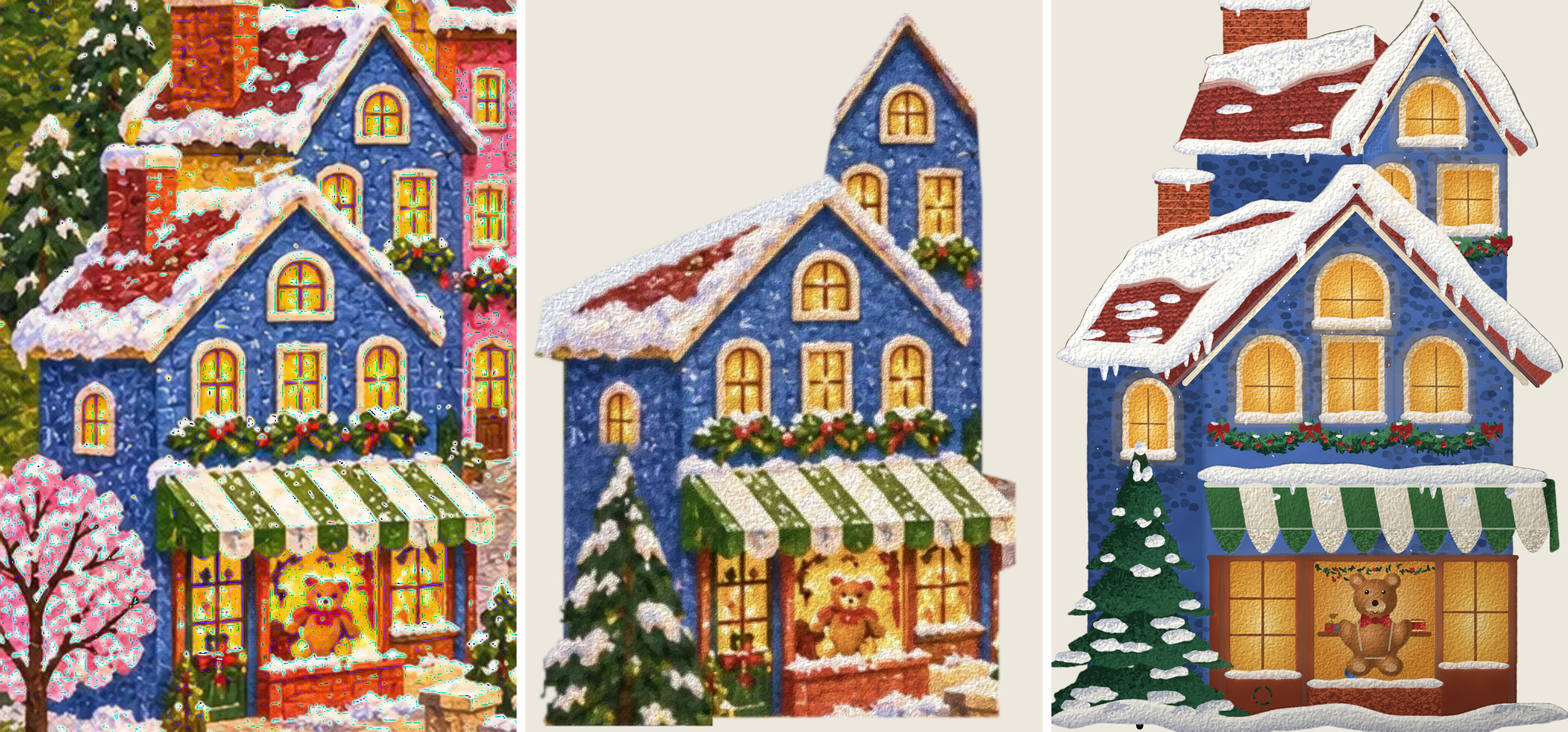
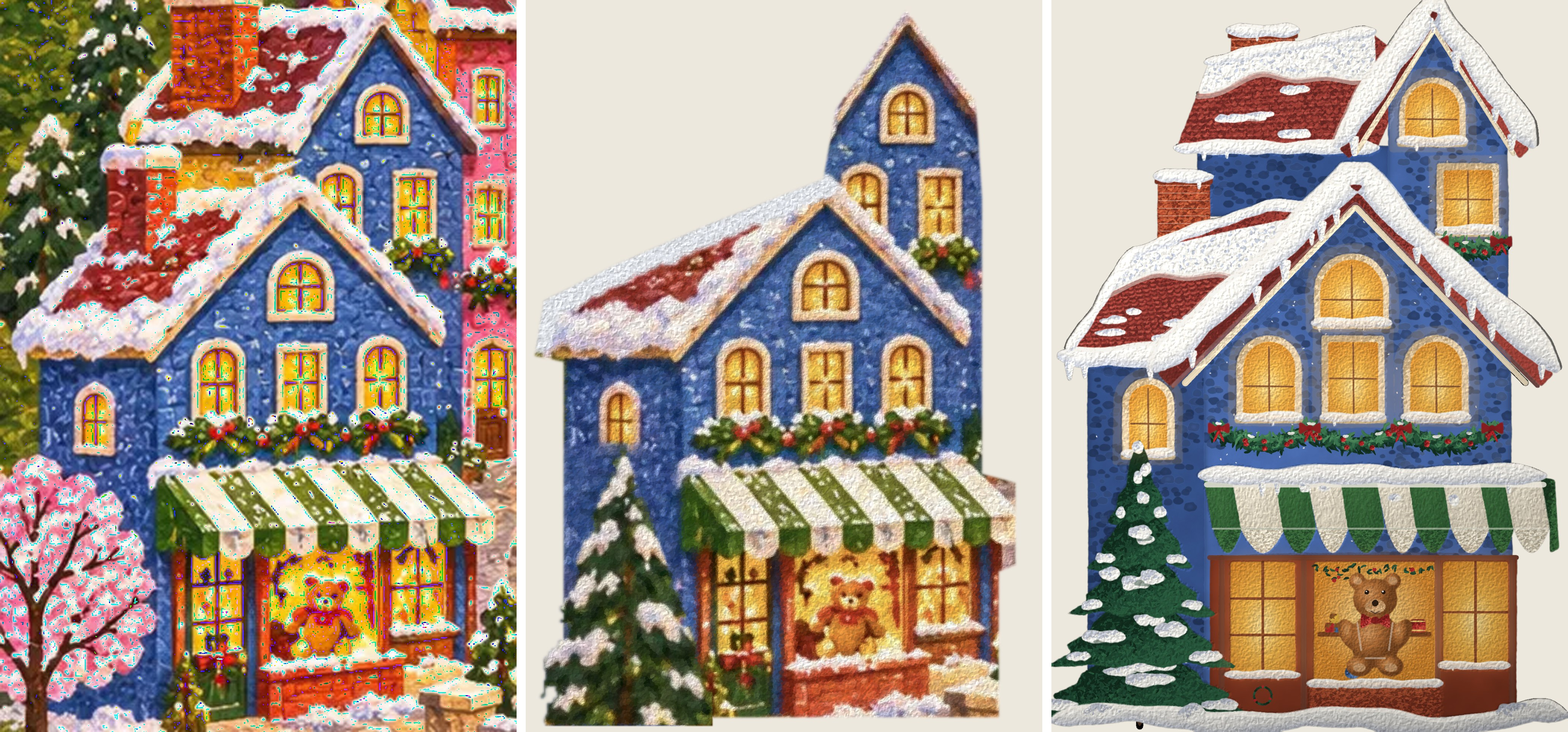
Blue shop v3: tall house tucked behind the front gable, lower shaded chimney, uneven awning stripes
Claude-Session: https://claude.ai/code/session_017tNAHgSCzTbES1SzX2uUW2

Changed region(s): [[0.6562, 0.0, 1.0, 1.0]]

diff --git a/usmap/closeup/toytown/build_blue_shop.py b/usmap/closeup/toytown/build_blue_shop.py
@@ -310,20 +310,19 @@ def chimney(x0, x1, ytop, ybot, cap=True):
 # =========================================================================================== the shop
 def build():
     # back: the red-roofed house behind, its roof reaching down behind the side roof, its chimney
-    chimney(113, 168, 434, 500)
-    wall([(96, 572), (96, 526), (205, 526), (205, 572)], BLUE_D, dark=True)            # the back house's wall, in shade
+    chimney(118, 160, 452, 500)
+    wall([(96, 572), (96, 526), (224, 526), (224, 572)], BLUE_D, dark=True)            # the back house's wall, in shade
     roof([(82, 528), (104, 472), (212, 452), (238, 474), (214, 528)], snowy=.32, ridge=((104, 470), (212, 450)), eave=((84, 526), (214, 526)))
     snow_edge([(100, 471), (214, 450)], 6.0, drip=0)
     snow_edge([(80, 527), (216, 527)], 7.0, drip=.3)
     chimney(70, 104, 548, 610)
     # the tall house
-    wall([(203, 760), (300, 760), (300, 520), (252, 446), (205, 520)], BLUE, fleck=.6)
-    eave_shadow([(205, 522), (252, 450), (299, 522)], 8)
+    wall([(222, 760), (300, 760), (300, 520), (252, 446), (222, 495)], BLUE, fleck=.6)
+    eave_shadow([(222, 498), (252, 450), (299, 522)], 8)
     shaded([(190, 528), (252, 436), (314, 528), (308, 534), (252, 448), (196, 534)], ['#a8463c', ROOF, ROOF_D], light=(-1, -.4), wob=.2, rough=.4, edge_dark=.2)
     S([(200, 531), (252, 449), (304, 531)], 3.6, CREAM, a=1, dry=.15, taper=(0, 0))
     snow_edge([(186, 527), (252, 432), (318, 527)], 13.0, drip=.4)
     window(233, 485, 268, 521, True)
-    window(212, 541, 236, 572, True)
     window(258, 542, 290, 580, False)
     garland(254, 296, 590, sag=4, swags=1)
     # the side wing (set back, so a little darker)
@@ -353,10 +352,11 @@ def build():
     # the awning: stripes leaning a little, rounded hems, shadow toward the valance, snow on top
     ax0, ax1, ay, ly, hem = 100, 322, 744, 778, 794
     n = 10
+    EDGES = [0.0] + sorted(np.clip(np.arange(1, n) / n + R.uniform(-.018, .018, n - 1), 0, 1)) + [1.0]
     for i in range(n):
-        a, b = i / n, (i + 1) / n
+        a, b = EDGES[i], EDGES[i + 1]
         t0, t1 = ax0 + (ax1 - ax0) * a, ax0 + (ax1 - ax0) * b
-        l0, l1 = t0 + 6, t1 + 6
+        l0, l1 = t0 + 6 + R.uniform(-1.2, 1.2) * (i > 0), t1 + 6 + R.uniform(-1.2, 1.2) * (i < n - 1)
         col, dark = (GREEN_A, GREEN_AD) if i % 2 == 0 else (WHITE_A, '#cfc4ac')
         m = A([(t0, ay), (t1, ay), (l1, ly), (l0, ly)], col, wob=.15, rough=.4, edge_dark=.12)
         Cc, Cd = hexc(col), hexc(dark); xa, xb = t0 - X0, t1 - X0
